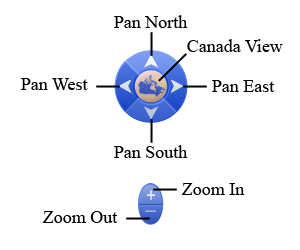
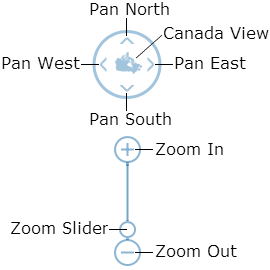
Update image of navigation widget in the help section;
Version bumped to 1.0.39-38
Related Work Items: #1521

diff --git a/RAMP/src/js/RAMP/Utils/util.js b/RAMP/src/js/RAMP/Utils/util.js
@@ -63,7 +63,7 @@ define(["dojo/_base/array", "dojo/_base/lang", "dojo/topic", "dojo/Deferred", "e
 
             /**
             * Returns an String that has it's angle brackets ('<' and '>') escaped (replaced by '&lt;' and '&gt;').
-            * This will effectively cause the String to be displayed in plain text when embedded in an html page.
+            * This will effectively cause the String to be displayed in plain text when embedded in an HTML page.
             *
             * @method escapeHtml
             * @static
